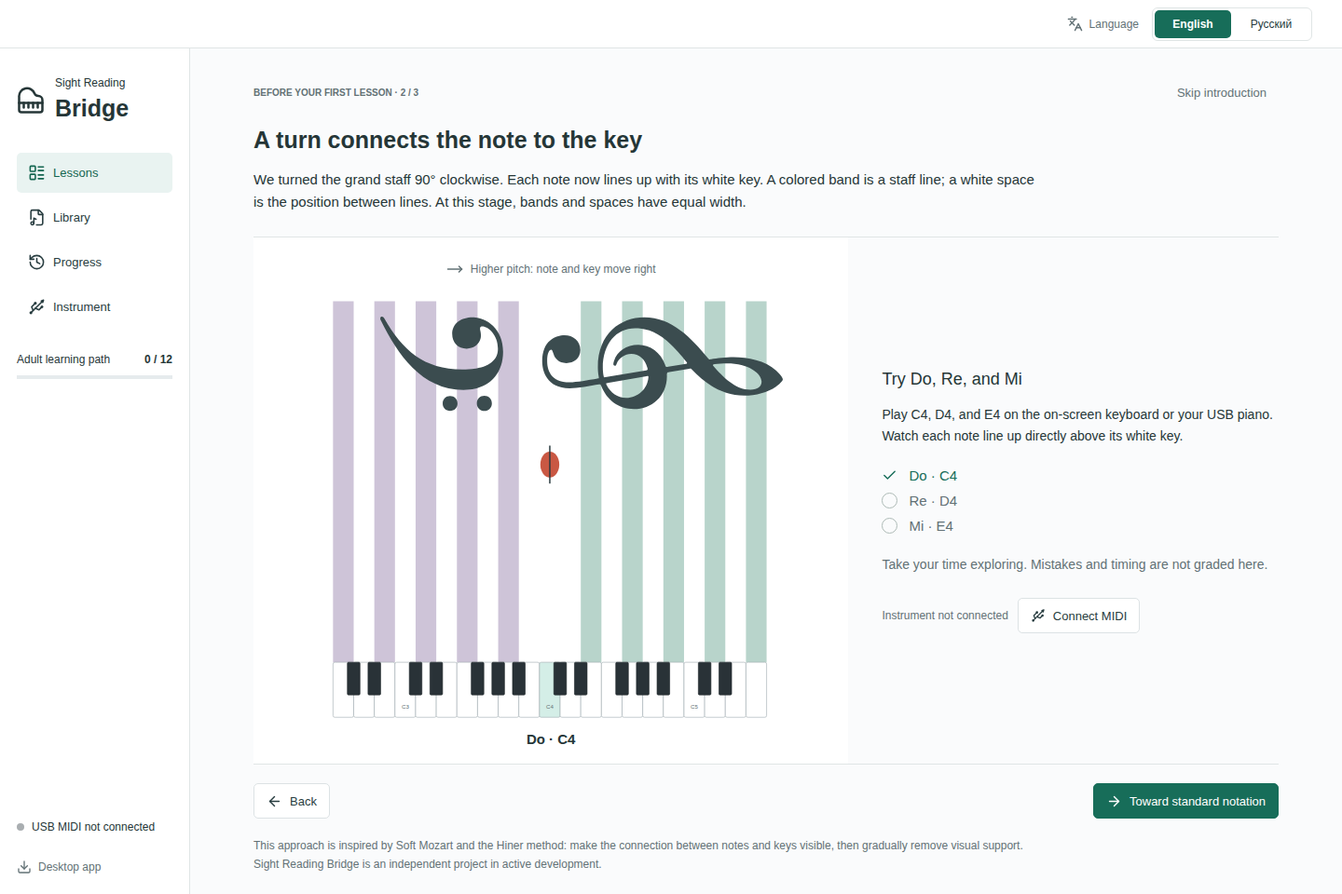
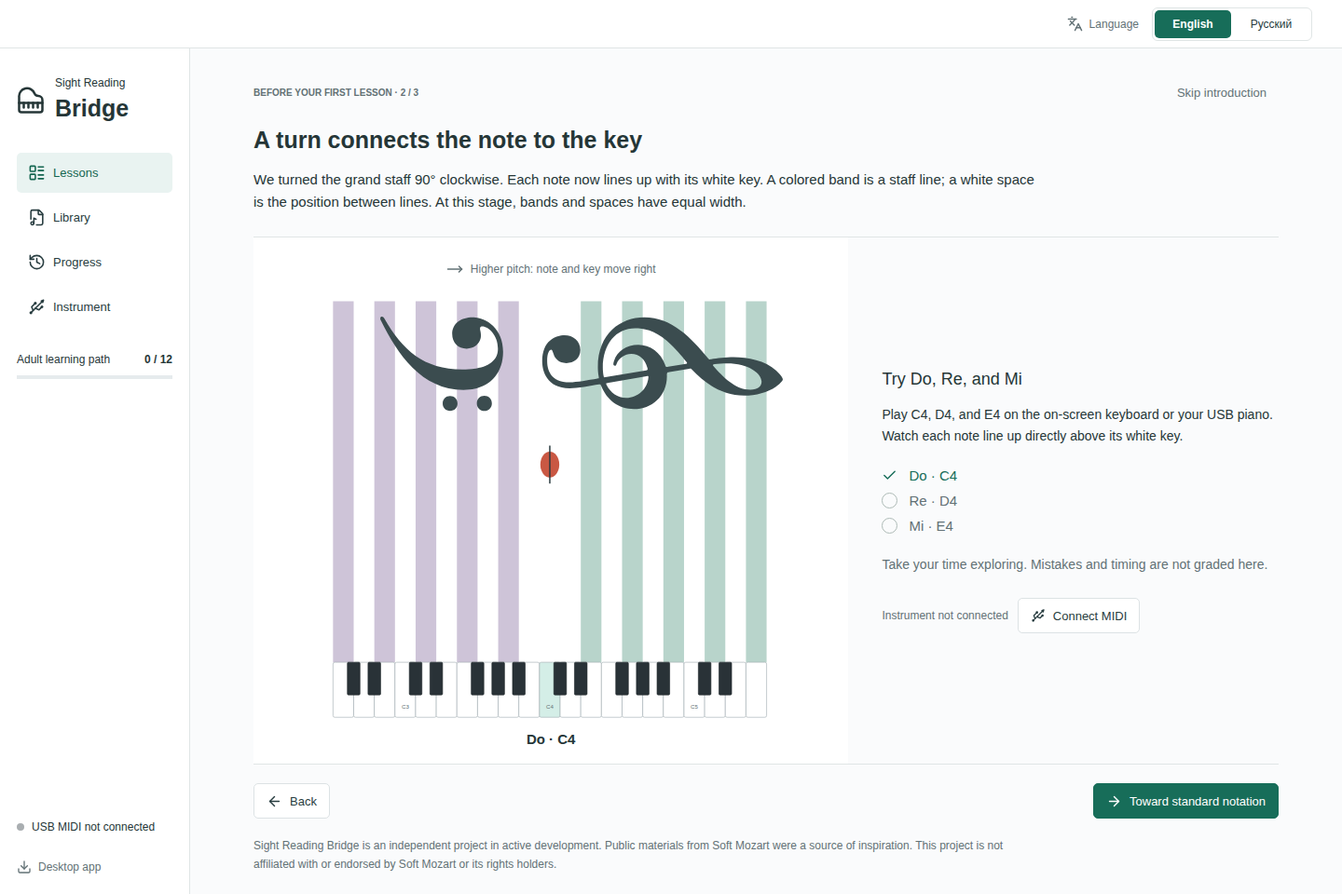
Clarify independent project identity and source attribution

Changed region(s): [[0.1875, 0.9375, 0.75, 0.9688]]

diff --git a/packages/i18n/src/en.ts b/packages/i18n/src/en.ts
@@ -23,7 +23,7 @@ export const en = {
   'Одна нота в трёх представлениях': 'One note, three views',
   'Сравните положения одной ноты. В первом уроке нет падающих нот и ограничения времени: найдите клавишу, нажмите и отпустите её.': 'Compare the same note in each view. Your first lesson has no falling notes or time limit: find the key, press it, and release it.',
   'Назад': 'Back', 'Повернуть стан': 'Turn the staff', 'К обычной записи': 'Toward standard notation', 'К первому занятию': 'Go to the first lesson',
-  'Этот подход вдохновлён Soft Mozart и методом Хайнер: показать связь ноты с клавишей и постепенно убрать визуальные опоры. Sight Reading Bridge — независимый проект в активной разработке.': 'This approach is inspired by Soft Mozart and the Hiner method: make the connection between notes and keys visible, then gradually remove visual support. Sight Reading Bridge is an independent project in active development.',
+  'Sight Reading Bridge — независимый проект в активной разработке. Один из источников вдохновения — публичные материалы Soft Mozart. Проект не связан с Soft Mozart и не одобрен его правообладателями.': 'Sight Reading Bridge is an independent project in active development. Public materials from Soft Mozart were a source of inspiration. This project is not affiliated with or endorsed by Soft Mozart or its rights holders.',
   'Основная навигация': 'Main navigation',
   'Занятия': 'Lessons', 'Библиотека': 'Library', 'Прогресс': 'Progress', 'Инструмент': 'Instrument',
   'Взрослый маршрут': 'Adult learning path', 'Взрослый маршрут · 01': 'Adult learning path · 01',

diff --git a/apps/web/src/StaffIntro.tsx b/apps/web/src/StaffIntro.tsx
@@ -82,6 +82,6 @@ export function StaffIntro({ onFinish }: { onFinish: () => void }) {
       </div>
     </div>
     <div className="intro-footer"><button disabled={step === 0} onClick={() => { setStep(step - 1); setView(step === 1 ? 'horizontal' : 'vertical'); setHeld([]) }}><ArrowLeft size={17}/>{t('Назад')}</button><button className="primary" onClick={step < 2 ? next : onFinish}>{step === 0 ? <RotateCw size={17}/> : <ArrowRight size={17}/>} {t(step === 0 ? 'Повернуть стан' : step === 1 ? 'К обычной записи' : 'К первому занятию')}</button></div>
-    <p className="intro-credit">{t('Этот подход вдохновлён Soft Mozart и методом Хайнер: показать связь ноты с клавишей и постепенно убрать визуальные опоры. Sight Reading Bridge — независимый проект в активной разработке.')}</p>
+    <p className="intro-credit">{t('Sight Reading Bridge — независимый проект в активной разработке. Один из источников вдохновения — публичные материалы Soft Mozart. Проект не связан с Soft Mozart и не одобрен его правообладателями.')}</p>
   </section>
 }

diff --git a/docs/source-methodology.md b/docs/source-methodology.md
@@ -1,15 +1,19 @@
 # Методика обучения чтению с листа
-### Открытый аналог Soft Mozart (метод Хайнер) с поправками на когнитивную науку
+### Рабочие педагогические требования Sight Reading Bridge
+
+Этот документ развивает первоначальное проектное задание; он описывает план, а не полностью реализованный или научно валидированный курс. Одним из источников вдохновения стали [публичные материалы Soft Mozart о визуальном представлении нот](https://www.softmozart.com/curriculum/eyenotes-sheet-music.html). Это не руководство Soft Mozart и не лицензированная реализация его курса. Проект не связан с правообладателями Soft Mozart, не спонсируется и не одобрен ими. Упоминание источника не является заключением о патентах, товарных знаках или правах на использование материалов.
 
 > Этот документ — педагогическое ядро, а не оболочка. Оболочку (Electron/React) можно переписать; ядро менять дорого. Поэтому всё ниже описано так, чтобы лечь в код как набор независимых модулей: `music-core`, `exercise-engine`, `curriculum`, `notation-renderer`, `scoring-engine`.
 
 ---
 
-## Часть 0. Что мы воспроизводим и где улучшаем
+## Часть 0. Учебная задача и проектные решения
 
-**Открытие Хайнер (его стоит взять целиком):** нотация Гвидо д'Ареццо ориентирована *вертикально* (высота звука = вверх/вниз), а клавиатура — *горизонтально* (низкие звуки слева, высокие справа). Эти две системы перпендикулярны. Если повернуть нотный стан на 90° по часовой стрелке, линии и пробелы становятся прямым визуальным продолжением клавиш. Прирождённые музыканты видят эту связь интуитивно; большинство — нет, и именно поэтому «застревают» на чтении с листа. Soft Mozart делает эту связь явной на старте и потом постепенно убирает «подпорки», пока ученик не выходит на обычную нотацию.
+**Связь двух направлений:** в обычной нотации высота звука меняется по вертикали, а на клавиатуре — по горизонтали. Поворот большого нотного стана на 90° по часовой стрелке позволяет расположить натуральные ноты над соответствующими белыми клавишами. В приложении это временная визуальная опора: дальнейшие упражнения должны вести к чтению обычной записи.
 
-**Что подтверждает наука о чтении с листа (а не маркетинг Soft Mozart):**
+**Исследовательские ориентиры для разработки:**
+
+Ниже перечислены исходные рабочие гипотезы. Они требуют уточнения по первичным исследованиям и не доказывают эффективность приложения или выбранных порогов обучения.
 
 - Чтение с листа — это **распознавание паттернов**, а не дешифровка нот по одной (Wolf, 1976; и вся последующая линия eye-tracking исследований). Чем больше знакомых паттернов узнаёшь, тем выше беглость.
 - Эксперты делают **меньше и короче фиксаций** глаза и читают **«чанками»** (трезвучия, гаммовые фрагменты), а не отдельными нотами. Новички с тренировкой постепенно сокращают длительность фиксаций.
@@ -17,20 +21,20 @@
 - Цепочка: глаза → внутренний звук (слуховая рабочая память) → движение пальцев. То есть **внутренний слух — часть навыка**, а не довесок.
 - Рабочая память тоже лимитирует (Meinz & Hambrick, 2010): практики необходимо, но недостаточно — структура материала (поддерживает ли он чанкинг) реально влияет на результат.
 
-**Где Soft Mozart уязвим — и что мы делаем иначе:**
+**Требования к нашему приложению:**
 
-| Слабое место Soft Mozart | Наша поправка |
+| Учебная задача | Проектное решение |
 |---|---|
-| Жёсткие 6 фиксированных «представлений» — один темп снятия лесов для всех | Раскладываем леса на **независимые оси**, каждая гаснет адаптивно по своей метрике |
-| Имена нот и цвет на нотах создают риск **зависимости** (читаешь букву/цвет, а не позицию) | Тот же приём, но fade агрессивный и **измеряемый**: подсказка убирается, как только метрика по ней превышает порог |
-| Стикеры на физические клавиши | Экранная подсветка клавиатуры — убирается программно, ничего не клеить |
-| Рассчитан в первую очередь на детей 2–5 лет с нуля моторики | Добавляем явный **«взрослый путь»** (см. Часть 9) — для тебя он короче и начинается не с моторики |
+| Раздельная настройка визуальных опор | Независимые оси с отдельными метриками |
+| Проверка узнавания позиции без подписей и цвета | Упражнения со сниженной поддержкой и записью результата |
+| Работа без наклеек на инструменте | Отключаемая экранная подсветка клавиатуры |
+| Практика для взрослого с опытом игры | Отдельный взрослый маршрут (Часть 9) |
 
 ---
 
 ## Часть 1. Диагноз: почему чтение с листа не даётся
 
-Шесть препятствий. Первые пять — из метода Хайнер, шестое — из исследований; именно его Soft Mozart проговаривает слабо, а оно для взрослого ключевое.
+Шесть учебных задач для проектирования упражнений. Это рабочая модель потребностей ученика, а не оценка другого продукта.
 
 1. **Перегруз однородными объектами.** Большой стан — это ~10 линий + ~12 пробелов = более 20 однородных «дорожек». Глаз надёжно отслеживает ~7 (Миллер). Без опорных точек ученик тонет в «джунглях линий».
 2. **Конфликт ориентаций.** Вертикаль нотации против горизонтали клавиатуры (см. Часть 0).
@@ -55,7 +59,7 @@
 
 ## Часть 3. Леса как независимые оси (главная архитектурная идея)
 
-Вместо 6 жёстких «представлений» Soft Mozart — раскладываем все подсказки на **независимые оси**. Каждая ось имеет свою метрику и гаснет отдельно. Это даёт плавную, персональную кривую вместо «ступенек», на которых ученики застревают.
+Раскладываем подсказки на **независимые оси**. Для каждой оси планируется отдельная метрика и настройка уровня поддержки. Эффективность такого регулирования нужно проверять в учебной практике.
 
 | Ось | Максимум подсказки | Минимум (= цель) | Метрика угасания |
 |---|---|---|---|
@@ -67,7 +71,7 @@
 | **F. Подсветка клавиши** | Нужная клавиша подсвечена на экране | Нет подсветки | Точность без подсветки |
 | **G. Ритм** | Ритм «разгружен»/увеличен | Полная ритмическая запись | Точность ритма |
 
-**Опорные точки на стане (ось D детально, прямо из метода Хайнер):**
+**Планируемые опорные точки на стане (ось D):**
 - Линии нумеруются 1–5 в каждом ключе.
 - Центральное до = **0**.
 - Басовый ключ нумеруется **сверху вниз** — стан становится симметричным «термометром» с 0 посередине.
@@ -85,13 +89,13 @@
 
 **Стадия 0. Моторная подготовка.** Играть 5–10 простых мелодий по показу/по памяти, отдельными руками. *Выход:* можешь сыграть вступительные пьесы наизусть синхронно с эталоном. (Взрослый-пианист эту стадию пропускает.)
 
-**Стадия 1. Узнавание статичных нот (без игры).** Нота на стане — назвать/нажать. Без темпа. Аналог модулей «Fruit Lines / Treble Puzzle». *Метрика:* латентность узнавания < N мс при > 90% точности. *Леса:* старт с B,C,D,E на максимуме.
+**Стадия 1. Узнавание статичных нот.** Нота на стане — назвать/нажать. Без темпа. *Метрика:* латентность узнавания < N мс при > 90% точности. *Леса:* старт с B,C,D,E на максимуме.
 
 **Стадия 2. Одна нота за раз, одна рука, в движении.** Вертикальный полностью озвученный стан, нота «падает» к клавише. *Выход:* точность нот > 95% на оси A=верт.
 
 **Стадия 3. Чанки.** Вводим паттерны: шаг вверх/вниз, скачок (терция/кварта), трезвучие, гаммовый фрагмент из 3–4 нот, повтор. Цель — узнавать группу как единицу. *Метрика:* латентность на паттерн падает ниже латентности на 2 отдельные ноты.
 
-**Стадия 4. Две руки, монофония.** Одна мелодия переходит из руки в руку (как Nursery Primer 0 у Soft Mozart). Руки по очереди, не одновременно. Оба ключа на экране, но активен один.
+**Стадия 4. Две руки, монофония.** Одна мелодия переходит из руки в руку. Руки по очереди, не одновременно. Оба ключа на экране, но активен один.
 
 **Стадия 5. Снятие лесов.** Гасим оси B→E→C→D→F по мере достижения порогов, в основном автоматически. Ось A (поворот к горизонтали) — отдельный осознанный шаг: «мысленно поверни на 90°».
 
@@ -105,11 +109,11 @@
 
 ## Часть 5. «Этюды для глаз»
 
-Отдельный класс упражнений из метода Хайнер, который стоит воспроизвести точно:
+Отдельный класс генерируемых упражнений для чтения незнакомых последовательностей:
 
 - Это **намеренно немузыкальный** материал — последовательности нот без мелодической логики.
 - Смысл: чтобы нельзя было выехать на слуховой памяти. Глаз обязан реально читать линии и пробелы, а не угадывать по знакомой мелодии.
-- Хайнер рекомендует играть их в наименее «подсказывающих» режимах (у неё — 2,4,5,6), не в самых озвученных.
+- Уровень подсказок снижается по мере освоения выбранного диапазона.
 - В наших терминах: этюды для глаз = генератор случайных, но **контролируемых по сложности** последовательностей (контроль диапазона, доли шагов/скачков, плотности) на средне-сниженных лесах.
 
 `exercise-engine` должен уметь генерировать и осмысленные пьесы (для мотивации), и эти анти-мелодические этюды (для чистой тренировки глаза).
@@ -118,7 +122,7 @@
 
 ## Часть 6. Геймификация и измерение
 
-Soft Mozart настаивает: **записывай каждую попытку, даже одну** — мгновенная видимость прогресса сильно мотивирует. Берём это.
+Записывать каждую учебную попытку, чтобы ученик мог сравнивать результаты. Не смешивать первое чтение нового материала с повторением знакомого.
 
 **Метрики на каждую попытку:**
 - Точность нот (% верных).
@@ -134,17 +138,17 @@ Soft Mozart настаивает: **записывай каждую попытк
 ## Часть 7. Внутренний слух
 
 - Перед/вместо игры — **пропевать** читаемое (sight-singing). Включает слуховую рабочую память, ту самую середину цепочки «глаз → звук → палец».
-- Имена нот — **фонетически совпадающие с сольфеджио** (как сделала Хайнер), чтобы пение и чтение использовали один словарь.
+- Использовать названия нот, принятые в сольфеджио, чтобы пение и чтение использовали один словарь.
 - Для взрослого с теорией (твой случай) — это мостик: ты уже слышишь гармонию, надо привязать её к мгновенному узнаванию позиции на стане.
 
 ---
 
-## Часть 8. Что я сознательно НЕ беру из Soft Mozart
+## Часть 8. Границы проекта
 
-- **«Кукольная теория»** (Тоника-Королева, Доминанта-Король и т.п.) — мило для детей, не нужно для MVP и не нужно тебе. Можно добавить позже как отдельный модуль теории.
-- **Жёсткие 6 представлений** — заменены непрерывным вектором лесов (Часть 3).
-- **Физические стикеры** — заменены экранной подсветкой (ось F).
-- **«Гарантируем результат за 2 месяца»** и пр. маркетинг — это обещания, а не методика; в курс не несём.
+- Основной маршрут ориентирован на взрослых; персонажи и сюжетное обучение не входят в текущий объём.
+- Визуальная поддержка задаётся независимыми параметрами (Часть 3).
+- Физические наклейки не требуются: предусмотрена экранная подсветка (ось F).
+- Сроки и результаты обучения не гарантируются. Пороги упражнений являются настройками тренажёра, а не подтверждёнными нормативами.
 
 ---
 

diff --git a/README.ru.md b/README.ru.md
@@ -8,11 +8,13 @@
 
 ## Идея и вдохновение
 
-Sight Reading Bridge — независимый аналог Soft Mozart, вдохновлённый методом Хайнер. Мы используем его центральный педагогический принцип: сначала сделать связь нотного стана с клавиатурой очевидной, затем постепенно убрать визуальные опоры и перейти к обычной записи. Это собственная реализация с взрослым учебным маршрутом, собственным интерфейсом и генератором упражнений, а не официальная версия Soft Mozart или воспроизведение всего её курса.
+Sight Reading Bridge — независимый тренажёр чтения нот с листа в активной разработке. Сначала он наглядно связывает нотный стан с клавиатурой, затем постепенно убирает визуальные опоры и возвращает ученика к обычной записи. Основное внимание уделено взрослому учебному маршруту, генерируемым упражнениям и локальной обратной связи через USB MIDI.
 
 На обычном стане высокий звук находится выше низкого, а на клавиатуре — правее. Поворот большого нотного стана на 90° по часовой стрелке совмещает эти направления: низкие ноты оказываются слева, высокие справа. Каждая натуральная нота располагается над своей белой клавишей. Закрашенные полосы обозначают настоящие линии стана, а белые промежутки — позиции между ними. На начальном этапе их ширина одинакова, чтобы и линии, и промежутки воспринимались как полноценные места для нот. До первой октавы служит ориентиром между двумя ключами и сохраняет короткую добавочную черту.
 
-Поворот — временная опора. Дальнейший путь: вертикальные полосы → горизонтальные полосы → обычный тонкий нотный стан. Цель — читать незнакомые ноты, в том числе без приложения. Этот подход описан в [материалах Soft Mozart](https://www.softmozart.com/curriculum/eyenotes-sheet-music.html) и в [методических рекомендациях проекта](docs/source-methodology.md). Мы не заявляем о связи с разработчиками Soft Mozart или равнозначности результатов обучения.
+Поворот — временная опора. Дальнейший путь: вертикальные полосы → горизонтальные полосы → обычный тонкий нотный стан. Цель — читать незнакомые ноты, в том числе без приложения. Одним из источников вдохновения при проектировании стали [публичные материалы Soft Mozart о визуальном представлении нот](https://www.softmozart.com/curriculum/eyenotes-sheet-music.html). Учебные цели и планируемое поведение нашего приложения описаны в [методических рекомендациях проекта](docs/source-methodology.md).
+
+Sight Reading Bridge не связан с Soft Mozart или его правообладателями, не спонсируется и не одобрен ими. Название упоминается только для указания источника, а не для обозначения официальной версии или лицензированной реализации курса. Мы не заявляем о равнозначности или превосходстве результатов обучения.
 
 Перед первым занятием доступно интерактивное вступление: поворот стана, знакомство с До–Ре–Ми на экранной клавиатуре или USB-пианино, сравнение одной ноты в трёх видах. Его можно пропустить или открыть снова. Вступление не оценивается и не записывается как учебная попытка.
 

diff --git a/README.md b/README.md
@@ -8,7 +8,7 @@
 [![Web MIDI](https://img.shields.io/badge/input-USB%20%C2%B7%20Web%20MIDI-287d68)](#connect-your-piano)
 [![Active development](https://img.shields.io/badge/status-active%20development-d7a33d)](#project-status)
 
-Sight Reading Bridge is an independent piano sight-reading trainer inspired by **Soft Mozart and the Hiner method**. It is being developed as an alternative built around the same educational idea: make the relationship between written notes and piano keys visible, then gradually withdraw that support. Play on your own digital piano, receive feedback locally, and keep the sound of your instrument.
+Sight Reading Bridge is an independent piano sight-reading trainer in active development. It makes the relationship between written notes and piano keys visible, then gradually withdraws that support. Play on your own digital piano, receive feedback locally, and keep the sound of your instrument.
 
 **[Download for desktop](https://github.com/nesfe/Sight-Reading-Bridge/releases/latest)** · **[Русская документация](README.ru.md)**
 
@@ -32,9 +32,9 @@ The first lesson includes an interactive introduction: turn the staff, try C4–
 
 ## Inspiration and Approach
 
-[Soft Mozart's explanation of its teaching notation](https://www.softmozart.com/curriculum/eyenotes-sheet-music.html) describes this visual connection, equal-width lines and spaces, and the gradual return to conventional notation. Our [methodology](docs/source-methodology.md) uses these principles as its starting point.
+[Soft Mozart's publicly available explanation of its teaching notation](https://www.softmozart.com/curriculum/eyenotes-sheet-music.html) was a source of inspiration during the project's design. It describes a visual connection between notes and keys, equal-width lines and spaces, and a gradual return to conventional notation. Our [design methodology](docs/source-methodology.md) sets out the learning goals and planned behavior of Sight Reading Bridge.
 
-Sight Reading Bridge is an independent implementation, not an official Soft Mozart edition or an affiliated product. It has its own interface and generated exercises. The current emphasis is an adult learning path, separate recognition and reading-ahead practice, USB-MIDI feedback, and local progress records; it does not reproduce the complete Soft Mozart course or claim equivalent learning outcomes.
+Sight Reading Bridge is not affiliated with, sponsored by, or endorsed by Soft Mozart or its rights holders. The name is used only to identify this reference, not to describe an official edition or a licensed implementation of its course. The current emphasis is an adult learning path, separate recognition and reading-ahead practice, USB-MIDI feedback, and local progress records. No equivalent or superior learning outcomes are claimed.
 
 Reading a score combines pitch recognition, keyboard navigation, rhythm, and looking ahead. Sight Reading Bridge introduces these demands in stages, giving each skill room to develop.
 

diff --git a/docs/release-notes.md b/docs/release-notes.md
@@ -1,4 +1,4 @@
-## 0.5.0 · An Introduction to the Grand Staff
+## 0.5.1 · Clearer Project Identity
 
 Download an installer below. Apple Silicon Macs, including M4, use `mac-arm64.dmg`. No local compilation is required. The temporary public preview has been retired.
 
@@ -6,8 +6,10 @@ Download an installer below. Apple Silicon Macs, including M4, use `mac-arm64.dm
 
 - An interactive introduction before the first lesson: see the staff turn 90° clockwise, try C4–D4–E4 on the on-screen keyboard or a USB piano, and compare the same pitch across three notation views.
 - The introduction is ungraded, can be skipped or revisited, and remembers completion locally. It supports English, Russian, keyboard navigation, and reduced-motion preferences.
-- Documentation explains the project's inspiration in Soft Mozart and the Hiner method, the staff-to-keyboard connection, and the gradual return to conventional notation.
-- An active-development badge and clearer project status. Sight Reading Bridge is an independent implementation, not an affiliated Soft Mozart product.
+- Documentation explains the staff-to-keyboard connection and the gradual return to conventional notation. Public Soft Mozart materials are acknowledged as a design reference, separately from the project's own description.
+- Revised English/Russian documentation and introduction text clarify the project's independence. No affiliation, sponsorship, endorsement, licensed course implementation, or equivalent learning outcomes are claimed.
+- Planning notes now describe this project's requirements instead of making unsupported comparisons with other products. This editorial update is not a legal clearance or a review of patent rights.
+- An active-development badge and clearer project status.
 - Public hosting and its autostart services are disabled. Server links have been removed from the current documentation, About, and published release descriptions. Development servers bind to loopback by default.
 
 ### Verification

diff --git a/docs/notation-decisions.md b/docs/notation-decisions.md
@@ -25,7 +25,7 @@
 - В горизонтальном представлении шаг равен 5, толщина меняется от 5 до 1 по той же формуле. Ориентация A и опоры D независимы: сам поворот не должен внезапно убирать опоры.
 - Настоящие ключи рисуются векторами VexFlow, без букв G/F и зависимости от системного музыкального шрифта.
 - В импортированной партитуре OSMD получает `StaffLineWidth=0.5` при шаге 0.5: закрашенная полоса и белый промежуток равны. Добавочные линии настраиваются отдельно (`LedgerLineWidth=0.16`), обычный режим использует `StaffLineWidth=0.1`.
-- Собственные цвета не копируют оформление Soft Mozart. Цвет ноты различает линию и промежуток; цвет полос различает два ключа. При C=0 цвета исчезают.
+- В палитре приложения цвет ноты различает линию и промежуток; цвет полос различает два ключа. При C=0 цвета исчезают.
 
 ## Проверка
 
